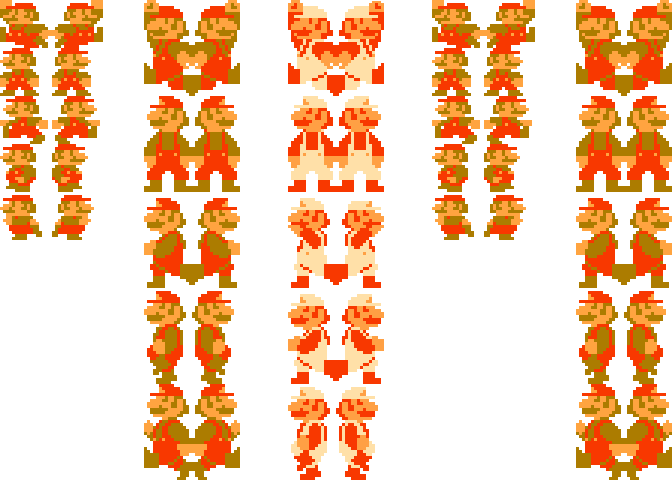
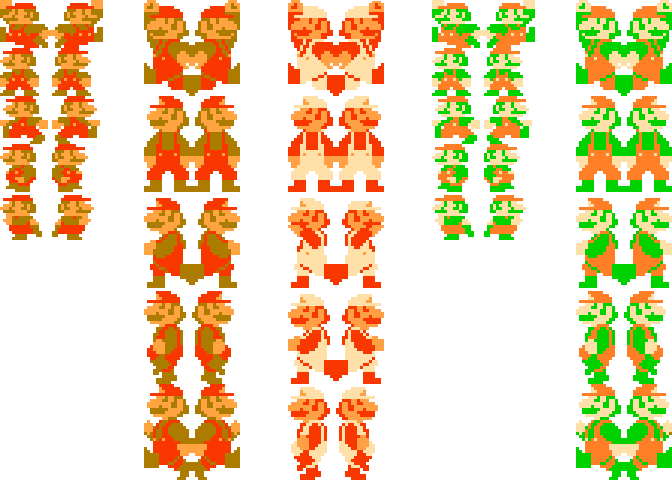
Sistemazione ImageLoader e implementazione mario star

Changed region(s): [[0.8438, 0.0, 1.0, 1.0], [0.625, 0.0, 0.8125, 0.5]]

diff --git a/src/view/ImageLoader.java b/src/view/ImageLoader.java
@@ -40,10 +40,16 @@ public class ImageLoader {
             col = 7;
             width = 48;
             height = 96;
+        } else if (marioForm == 3) {
+        	col = 10;
+        } else if (marioForm == 4) {
+        	col = 13;
+        	width = 48;
+        	height = 96;
         }
 
         for (int i = 0; i < 5; i++)
-            leftFrames[i] = marioForms.getSubimage((col - 1) * width, i * height, width, height);
+            leftFrames[i] = marioForms.getSubimage((col - 1) * 48, i * height, width, height);
         return leftFrames;
     }
 
@@ -60,10 +66,16 @@ public class ImageLoader {
             col = 8;
             width = 48;
             height = 96;
+        } else if (marioForm == 3) {
+        	col = 11;
+        } else if (marioForm == 4) {
+        	col = 14;
+        	width = 48;
+        	height = 96;
         }
 
         for (int i = 0; i < 5; i++)
-            rightFrames[i] = marioForms.getSubimage((col - 1) * width, (i) * height, width, height);
+            rightFrames[i] = marioForms.getSubimage((col - 1) * 48, (i) * height, width, height);
         return rightFrames;
     }
 

diff --git a/src/model/hero/Mario.java b/src/model/hero/Mario.java
@@ -100,7 +100,7 @@ public class Mario extends GameObject {
 
         ImageLoader imageLoader = new ImageLoader();
 
-        if(this.isStar()) {
+        if(this.isBabyStar()) {
             BufferedImage[] leftFrames = imageLoader.getLeftFrames(MarioForm.STAR);
             BufferedImage[] rightFrames = imageLoader.getRightFrames(MarioForm.STAR);
             this.animation = new Animation(leftFrames, rightFrames);
@@ -146,8 +146,7 @@ public class Mario extends GameObject {
     }
 
 	public void fire(MapManager mapManager) {
-		Fireball fireball = new Fireball(mapManager.getFireball(), getX(), getY(), true);
-		mapManager.addFireball(fireball);
+		mapManager.addFireball(marioForm.fire(true, getVelX(), getY()));
 	}
 
     /* ---------- Getters / Setters ---------- */
